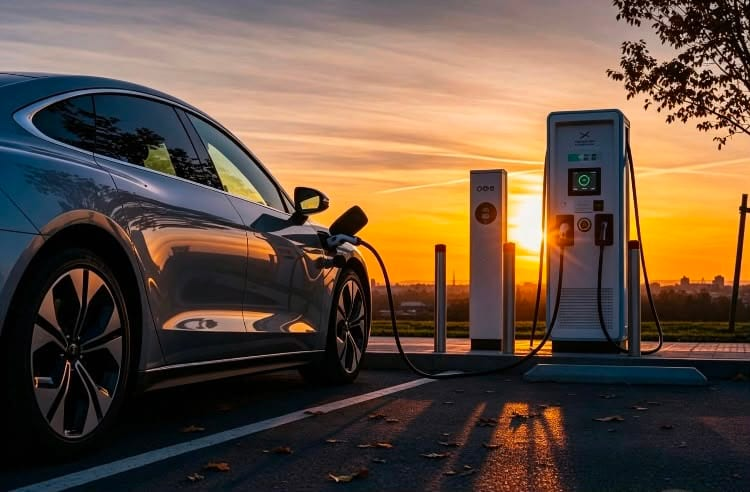
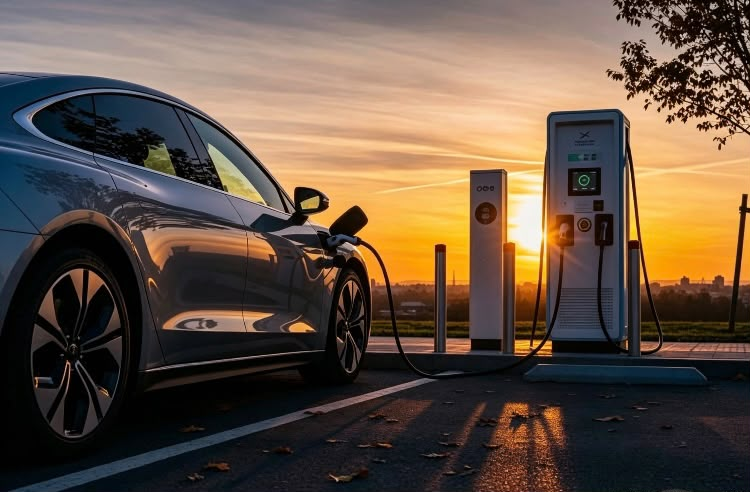
VLA: client revisions round 2 + mobile fixes
- Intro: new "Drawing on our wealth of experience" copy; remove the
  All Mainstream Manufacturers bullet; replace Renault 4 fcard with the
  vehicle collage image (capped height).
- Featured deals: photos on Renault 5 / BYD Atto 2 / Dacia Spring cards;
  subtext now "A snapshot of current examples."; new Power of Many copy.
- Remove brand-logo strip and the two bottom promo images.
- Hero: drop vehicle-type lines (moved with the All Mainstream tagline
  into a new info strip below), lighter overlay so the image shows,
  original image file restored for sharpness, compact landscape mobile hero.
- Mobile: fix hamburger pushed off-screen (compact header) and horizontal
  page slide from the off-canvas drawer (overflow-x hidden).
- Footer: WhatsApp link on all pages; fix Call button hover (inline
  colour override made hover text invisible).

diff --git a/VehicleLeasingAssociates/index.html b/VehicleLeasingAssociates/index.html
@@ -49,7 +49,7 @@
       <li><a href="contact.html">Personalised Quote</a></li>
     </ul>
     <div class="nav-cta">
-      <a href="tel:[phone redacted]" class="btn btn-outline" style="color:var(--navy);border-color:var(--navy)"><i data-lucide="phone"></i><span class="btn-call-text">Call Us</span></a>
+      <a href="tel:[phone redacted]" class="btn btn-outline"><i data-lucide="phone"></i><span class="btn-call-text">Call Us</span></a>
       <a href="https://wa.me/[phone redacted]" target="_blank" rel="noopener" class="btn btn-primary"><i data-lucide="message-circle"></i><span class="btn-call-text">WhatsApp</span></a>
       <button class="hamburger" aria-label="Menu"><i data-lucide="menu"></i></button>
     </div>
@@ -64,36 +64,18 @@
     <div class="hero-top">
       <h1>Transparent Car<br>&amp; Van Leasing</h1>
       <div class="hero-sub"><span class="hero-line"></span> New or Pre Registered</div>
-      <ul class="hero-feats">
-        <li><i data-lucide="car-front"></i> Electric, Hybrid, Petrol Cars</li>
-        <li><i data-lucide="truck"></i> Electric, Petrol, Hybrid, Diesel Vans</li>
-      </ul>
     </div>
     <p class="hero-tagline">Benefit from our group of associates' extensive purchasing power.</p>
   </div>
 </section>
 
-<!-- BRAND STRIP -->
-<section class="brand-strip">
+<!-- INFO STRIP -->
+<section class="info-strip">
   <div class="container">
-    <div class="bs-label">All Mainstream Manufacturers · Any Model</div>
-    <div class="brand-row">
-      <img src="images/brands/audi.png" alt="Audi" loading="lazy">
-      <img src="images/brands/bmw.png" alt="BMW" loading="lazy">
-      <img src="images/brands/mercedes-benz.png" alt="Mercedes-Benz" loading="lazy">
-      <img src="images/brands/volkswagen.png" alt="Volkswagen" loading="lazy">
-      <img src="images/brands/ford.png" alt="Ford" loading="lazy">
-      <img src="images/brands/toyota.png" alt="Toyota" loading="lazy">
-      <img src="images/brands/nissan.png" alt="Nissan" loading="lazy">
-      <img src="images/brands/renault.png" alt="Renault" loading="lazy">
-      <img src="images/brands/peugeot.png" alt="Peugeot" loading="lazy">
-      <img src="images/brands/citroen.png" alt="Citroën" loading="lazy">
-      <img src="images/brands/vauxhall.png" alt="Vauxhall" loading="lazy">
-      <img src="images/brands/kia.png" alt="Kia" loading="lazy">
-      <img src="images/brands/hyundai.png" alt="Hyundai" loading="lazy">
-      <img src="images/brands/fiat.png" alt="Fiat" loading="lazy">
-      <img src="images/brands/dacia.png" alt="Dacia" loading="lazy">
-      <img src="images/brands/byd.png" alt="BYD" loading="lazy">
+    <div class="is-main">All Mainstream Manufacturers · Any Model</div>
+    <div class="is-types">
+      <span><i data-lucide="car-front"></i> Electric, Hybrid, Petrol Cars</span>
+      <span><i data-lucide="truck"></i> Electric, Petrol, Hybrid, Diesel Vans</span>
     </div>
   </div>
 </section>
@@ -104,53 +86,17 @@
     <div class="split-body reveal">
       <span class="eyebrow">What We Offer</span>
       <h2>Qualified Vehicle Lease Consultants</h2>
-      <p>Using our vast amount of experience, we provide cost-effective leasing solutions, tailored to individuals or business. Included in our experience is 17 years of being associated with one of Europe's leading finance institutions.</p>
+      <p>Drawing on our wealth of experience, we provide cost-effective leasing solutions tailored to individuals and businesses. This includes 17 years' association with one of Europe's leading finance institutions.</p>
       <ul class="checklist two">
         <li><i data-lucide="check-circle-2"></i> Car or Van Leasing</li>
         <li><i data-lucide="check-circle-2"></i> Contract with or without maintenance</li>
         <li><i data-lucide="check-circle-2"></i> Finance agreements</li>
         <li><i data-lucide="check-circle-2"></i> Purchase options</li>
       </ul>
-      <div class="subhead" style="display:flex;align-items:center;gap:10px;color:var(--red)"><i data-lucide="check-circle-2" style="width:22px;height:22px"></i> All Mainstream Manufacturers · Any Model</div>
       <a href="contact.html" class="btn btn-navy" style="margin-top:14px"><i data-lucide="arrow-right"></i> Get In Touch</a>
     </div>
     <div class="split-media reveal">
-      <article class="fcard">
-        <div class="fcard-top">
-          <div class="fcard-info">
-            <h3>Renault 4</h3>
-            <p class="fcard-spec">110kW Evolution+<br>Comfort Range 52kWh<br>5dr Auto</p>
-            <div class="fcard-range"><span>Maximum Range</span><strong>249 Miles</strong></div>
-          </div>
-          <div class="fcard-photo">
-            <img src="images/photo-renault4.jpg" alt="Renault 4 electric">
-          </div>
-        </div>
-        <div class="fcard-term"><b>3 Year</b><span>Personal Lease</span></div>
-        <div class="fcard-prices">
-          <div class="fp"><div class="pic"><i data-lucide="wallet"></i></div><span class="lbl">Budget Weekly</span><b>£46.08</b><small>inc VAT</small></div>
-          <div class="fp"><div class="pic"><i data-lucide="calendar-days"></i></div><span class="lbl">Contract Monthly</span><b>£199.68</b><small>inc VAT</small></div>
-          <div class="fp"><div class="pic"><i data-lucide="credit-card"></i></div><span class="lbl">Initial Payment</span><b>£2,396.16</b><small>inc VAT</small></div>
-        </div>
-        <div class="fcard-featsbar">
-          <span><i data-lucide="shield-check"></i> Full Cover Warranty</span>
-          <span><i data-lucide="route"></i> Road Tax Included</span>
-          <span><i data-lucide="clipboard-check"></i> No MOT Concerns</span>
-        </div>
-        <div class="fcard-foot">
-          <div class="fcard-brand">
-            <div class="bic"><i data-lucide="handshake"></i></div>
-            <div>
-              <strong>Vehicle Leasing Associates (UK)</strong>
-              <p>Benefit from our group of associates' purchasing power.</p>
-              <span class="ref">Ref: TWC12</span>
-            </div>
-          </div>
-          <div class="fcard-foot-photo">
-            <img src="images/car-renault4-front.jpg" alt="Renault 4 front view">
-          </div>
-        </div>
-      </article>
+      <img src="images/intro-car.jpg" alt="Electric cars available to lease" style="aspect-ratio:auto;max-height:440px;width:auto;margin:0 auto">
     </div>
   </div>
 </section>
@@ -161,10 +107,11 @@
     <div class="section-head center reveal">
       <span class="eyebrow">Lease Deals</span>
       <h2>Some of Our Amazing Lease Deals</h2>
-      <p>A snapshot of current examples across electric, petrol and commercial — all with road tax, full warranty and no MOT concerns.</p>
+      <p>A snapshot of current examples.</p>
     </div>
     <div class="deal-grid reveal">
       <article class="lcard">
+        <img class="lcard-photo" src="images/card-renault5.jpg" alt="Renault 5 electric">
         <div class="lcard-head">
           <div>
             <span class="lcard-fuel fuel-electric"><i data-lucide="zap"></i> Electric</span>
@@ -190,6 +137,7 @@
         </div>
       </article>
       <article class="lcard">
+        <img class="lcard-photo" src="images/card-byd.jpg" alt="BYD Atto 2 electric">
         <div class="lcard-head">
           <div>
             <span class="lcard-fuel fuel-electric"><i data-lucide="zap"></i> Electric</span>
@@ -215,6 +163,7 @@
         </div>
       </article>
       <article class="lcard">
+        <img class="lcard-photo" src="images/card-dacia.jpg" alt="Dacia Spring electric">
         <div class="lcard-head">
           <div>
             <span class="lcard-fuel fuel-electric"><i data-lucide="zap"></i> Electric</span>
@@ -279,7 +228,7 @@
       <div class="container">
         <div class="tag">The Power of Many</div>
         <h3>Pay Less Through Collective Buying Power</h3>
-        <p>Our group of associates buys across a diverse panel of funders — so you benefit from sharper pricing and a personalised service, including your own named support specialist.</p>
+        <p>Through our extensive network of associates, we secure highly competitive rates on your behalf. Combined with a tailored, personal service and your own dedicated support specialist, you benefit from exceptional value without compromising on expertise or support.</p>
       </div>
     </div>
     <div class="cards reveal">
@@ -289,16 +238,6 @@
       <div class="card"><div class="ic"><i data-lucide="bar-chart-3"></i></div><h3>Market Insights</h3><p>Up-to-date data to guide smarter, better-value decisions.</p></div>
       <div class="card"><div class="ic"><i data-lucide="handshake"></i></div><h3>Strong Partnerships</h3><p>Established relationships built on trust and results.</p></div>
       <div class="card"><div class="ic"><i data-lucide="headset"></i></div><h3>Ongoing Support</h3><p>Advice and support throughout your journey from your named specialist.</p></div>
-    </div>
-  </div>
-</section>
-
-<!-- EV PROMO -->
-<section class="section tight">
-  <div class="container">
-    <div class="promo-duo reveal">
-      <a href="lease-deals.html#cars" class="promo-img" style="display:block"><img src="images/promo-cars-ev.jpg" alt="Is it time to consider another car? Electric lease deals"></a>
-      <a href="lease-deals.html#vans" class="promo-img" style="display:block"><img src="images/promo-vans.jpg" alt="Is it time to consider another van? Electric, petrol or diesel lease deals"></a>
     </div>
   </div>
 </section>
@@ -350,6 +289,7 @@
         <h4>Get In Touch</h4>
         <div class="fc"><i data-lucide="mail"></i> <a href="mailto:[email redacted]">[email redacted]</a></div>
         <div class="fc"><i data-lucide="phone"></i> <a href="tel:[phone redacted]">[phone redacted]</a></div>
+        <div class="fc"><i data-lucide="message-circle"></i> <a href="https://wa.me/[phone redacted]" target="_blank" rel="noopener">WhatsApp</a></div>
         <div class="fc"><i data-lucide="map-pin"></i> Exeter, United Kingdom</div>
         <div class="fc"><i data-lucide="clock"></i> 9am – 8pm, 7 days</div>
         <a href="contact.html" class="btn btn-primary" style="margin-top:8px"><i data-lucide="message-square"></i> Quick Contact</a>

diff --git a/VehicleLeasingAssociates/css/style.css b/VehicleLeasingAssociates/css/style.css
@@ -26,7 +26,7 @@
   --sans:'Inter',system-ui,sans-serif;
 }
 *{margin:0;padding:0;box-sizing:border-box}
-html{scroll-behavior:smooth}
+html{scroll-behavior:smooth;overflow-x:hidden}
 body{
   font-family:var(--sans);
   color:var(--body);
@@ -105,7 +105,7 @@ section{position:relative}
 .hero{position:relative;min-height:600px;display:flex;align-items:stretch;color:#fff;overflow:hidden}
 .hero-bg{position:absolute;inset:0;z-index:0}
 .hero-bg img{width:100%;height:100%;object-fit:cover;object-position:50% 50%}
-.hero-bg::after{content:"";position:absolute;inset:0;background:linear-gradient(90deg,rgba(0,26,74,.95) 0%,rgba(0,26,74,.80) 32%,rgba(0,26,74,.44) 58%,rgba(0,26,74,.08) 100%),linear-gradient(to top,rgba(2,18,50,.6) 0%,rgba(2,18,50,0) 32%)}
+.hero-bg::after{content:"";position:absolute;inset:0;background:linear-gradient(90deg,rgba(0,26,74,.84) 0%,rgba(0,26,74,.60) 34%,rgba(0,26,74,.24) 62%,rgba(0,26,74,0) 100%),linear-gradient(to top,rgba(2,18,50,.42) 0%,rgba(2,18,50,0) 30%)}
 .hero .container{position:relative;z-index:1;width:100%;display:flex;flex-direction:column;justify-content:space-between;padding-top:60px;padding-bottom:56px}
 .hero-top{max-width:620px}
 .hero h1{color:#fff;font-size:clamp(2.3rem,5.2vw,3.7rem);line-height:1.05;letter-spacing:-.02em;margin-bottom:20px}
@@ -339,11 +339,28 @@ section{position:relative}
   .field-row{grid-template-columns:1fr}
   .footer-grid{grid-template-columns:1fr}
   .hero{min-height:0}
-  .hero .container{padding-top:34px;padding-bottom:38px}
+  .hero .container{padding-top:24px;padding-bottom:24px}
   .hero-bg img{object-position:50% 50%}
-  .hero-tagline{margin-top:28px}
+  .hero h1{font-size:clamp(1.7rem,7vw,2.2rem);margin-bottom:12px}
+  .hero-sub{font-size:.92rem;margin-bottom:0}
+  .hero-tagline{margin-top:16px;font-size:1.05rem;max-width:30ch}
   .step{grid-template-columns:1fr}
+  /* compact mobile header so the menu button always fits */
+  .nav{height:64px;gap:8px}
+  .brand img{height:30px}
+  .nav-cta{gap:6px}
+  .nav-cta .btn{padding:9px 10px}
+  .hamburger{padding:6px}
+  .hamburger i{width:24px;height:24px}
 }
+
+/* Info strip below hero */
+.info-strip{background:var(--surface-2);border-bottom:1px solid var(--line);padding:22px 0}
+.info-strip .container{display:flex;flex-direction:column;align-items:center;gap:10px;text-align:center}
+.is-main{font-family:var(--head);font-weight:700;color:var(--navy);font-size:1.1rem;letter-spacing:.01em}
+.is-types{display:flex;flex-wrap:wrap;justify-content:center;gap:8px 30px}
+.is-types span{display:inline-flex;align-items:center;gap:8px;color:var(--body);font-weight:500;font-size:.96rem}
+.is-types i{width:18px;height:18px;color:var(--red);flex-shrink:0}
 
 /* ===========================================================
    Revision components — brand strip, lease deals, promos
@@ -368,6 +385,7 @@ section{position:relative}
 /* HTML lease cards */
 .lcard{background:#fff;border:1px solid var(--line);border-radius:var(--r-lg);box-shadow:var(--shadow);overflow:hidden;display:flex;flex-direction:column;transition:transform .2s,box-shadow .2s}
 .lcard:hover{transform:translateY(-4px);box-shadow:var(--shadow-lg)}
+.lcard-photo{width:100%;height:180px;object-fit:cover;display:block;background:var(--surface-2);border-bottom:1px solid var(--line)}
 .lcard-head{display:flex;justify-content:space-between;gap:14px;padding:22px 22px 16px}
 .lcard-fuel{display:inline-flex;align-items:center;gap:5px;font-size:11px;font-weight:700;letter-spacing:.05em;text-transform:uppercase;padding:4px 9px;border-radius:999px;margin-bottom:11px}
 .lcard-fuel i{width:13px;height:13px}

diff --git a/VehicleLeasingAssociates/about-us.html b/VehicleLeasingAssociates/about-us.html
@@ -40,7 +40,7 @@
       <li><a href="contact.html">Personalised Quote</a></li>
     </ul>
     <div class="nav-cta">
-      <a href="tel:[phone redacted]" class="btn btn-outline" style="color:var(--navy);border-color:var(--navy)"><i data-lucide="phone"></i><span class="btn-call-text">Call Us</span></a>
+      <a href="tel:[phone redacted]" class="btn btn-outline"><i data-lucide="phone"></i><span class="btn-call-text">Call Us</span></a>
       <a href="https://wa.me/[phone redacted]" target="_blank" rel="noopener" class="btn btn-primary"><i data-lucide="message-circle"></i><span class="btn-call-text">WhatsApp</span></a>
       <button class="hamburger" aria-label="Menu"><i data-lucide="menu"></i></button>
     </div>
@@ -162,6 +162,7 @@
         <h4>Get In Touch</h4>
         <div class="fc"><i data-lucide="mail"></i> <a href="mailto:[email redacted]">[email redacted]</a></div>
         <div class="fc"><i data-lucide="phone"></i> <a href="tel:[phone redacted]">[phone redacted]</a></div>
+        <div class="fc"><i data-lucide="message-circle"></i> <a href="https://wa.me/[phone redacted]" target="_blank" rel="noopener">WhatsApp</a></div>
         <div class="fc"><i data-lucide="map-pin"></i> Exeter, United Kingdom</div>
         <div class="fc"><i data-lucide="clock"></i> 9am – 8pm, 7 days</div>
         <a href="contact.html" class="btn btn-primary" style="margin-top:8px"><i data-lucide="message-square"></i> Quick Contact</a>

diff --git a/VehicleLeasingAssociates/contact.html b/VehicleLeasingAssociates/contact.html
@@ -40,7 +40,7 @@
       <li class="active"><a href="contact.html">Personalised Quote</a></li>
     </ul>
     <div class="nav-cta">
-      <a href="tel:[phone redacted]" class="btn btn-outline" style="color:var(--navy);border-color:var(--navy)"><i data-lucide="phone"></i><span class="btn-call-text">Call Us</span></a>
+      <a href="tel:[phone redacted]" class="btn btn-outline"><i data-lucide="phone"></i><span class="btn-call-text">Call Us</span></a>
       <a href="https://wa.me/[phone redacted]" target="_blank" rel="noopener" class="btn btn-primary"><i data-lucide="message-circle"></i><span class="btn-call-text">WhatsApp</span></a>
       <button class="hamburger" aria-label="Menu"><i data-lucide="menu"></i></button>
     </div>
@@ -154,6 +154,7 @@
         <h4>Get In Touch</h4>
         <div class="fc"><i data-lucide="mail"></i> <a href="mailto:[email redacted]">[email redacted]</a></div>
         <div class="fc"><i data-lucide="phone"></i> <a href="tel:[phone redacted]">[phone redacted]</a></div>
+        <div class="fc"><i data-lucide="message-circle"></i> <a href="https://wa.me/[phone redacted]" target="_blank" rel="noopener">WhatsApp</a></div>
         <div class="fc"><i data-lucide="map-pin"></i> Exeter, United Kingdom</div>
         <div class="fc"><i data-lucide="clock"></i> 9am – 8pm, 7 days</div>
         <a href="contact.html" class="btn btn-primary" style="margin-top:8px"><i data-lucide="message-square"></i> Quick Contact</a>

diff --git a/VehicleLeasingAssociates/evs-explained.html b/VehicleLeasingAssociates/evs-explained.html
@@ -40,7 +40,7 @@
       <li><a href="contact.html">Personalised Quote</a></li>
     </ul>
     <div class="nav-cta">
-      <a href="tel:[phone redacted]" class="btn btn-outline" style="color:var(--navy);border-color:var(--navy)"><i data-lucide="phone"></i><span class="btn-call-text">Call Us</span></a>
+      <a href="tel:[phone redacted]" class="btn btn-outline"><i data-lucide="phone"></i><span class="btn-call-text">Call Us</span></a>
       <a href="https://wa.me/[phone redacted]" target="_blank" rel="noopener" class="btn btn-primary"><i data-lucide="message-circle"></i><span class="btn-call-text">WhatsApp</span></a>
       <button class="hamburger" aria-label="Menu"><i data-lucide="menu"></i></button>
     </div>
@@ -142,6 +142,7 @@
         <h4>Get In Touch</h4>
         <div class="fc"><i data-lucide="mail"></i> <a href="mailto:[email redacted]">[email redacted]</a></div>
         <div class="fc"><i data-lucide="phone"></i> <a href="tel:[phone redacted]">[phone redacted]</a></div>
+        <div class="fc"><i data-lucide="message-circle"></i> <a href="https://wa.me/[phone redacted]" target="_blank" rel="noopener">WhatsApp</a></div>
         <div class="fc"><i data-lucide="map-pin"></i> Exeter, United Kingdom</div>
         <div class="fc"><i data-lucide="clock"></i> 9am – 8pm, 7 days</div>
         <a href="contact.html" class="btn btn-primary" style="margin-top:8px"><i data-lucide="message-square"></i> Quick Contact</a>

diff --git a/VehicleLeasingAssociates/lease-deals.html b/VehicleLeasingAssociates/lease-deals.html
@@ -44,7 +44,7 @@
       <li><a href="contact.html">Personalised Quote</a></li>
     </ul>
     <div class="nav-cta">
-      <a href="tel:[phone redacted]" class="btn btn-outline" style="color:var(--navy);border-color:var(--navy)"><i data-lucide="phone"></i><span class="btn-call-text">Call Us</span></a>
+      <a href="tel:[phone redacted]" class="btn btn-outline"><i data-lucide="phone"></i><span class="btn-call-text">Call Us</span></a>
       <a href="https://wa.me/[phone redacted]" target="_blank" rel="noopener" class="btn btn-primary"><i data-lucide="message-circle"></i><span class="btn-call-text">WhatsApp</span></a>
       <button class="hamburger" aria-label="Menu"><i data-lucide="menu"></i></button>
     </div>
@@ -311,6 +311,7 @@
         <h4>Get In Touch</h4>
         <div class="fc"><i data-lucide="mail"></i> <a href="mailto:[email redacted]">[email redacted]</a></div>
         <div class="fc"><i data-lucide="phone"></i> <a href="tel:[phone redacted]">[phone redacted]</a></div>
+        <div class="fc"><i data-lucide="message-circle"></i> <a href="https://wa.me/[phone redacted]" target="_blank" rel="noopener">WhatsApp</a></div>
         <div class="fc"><i data-lucide="map-pin"></i> Exeter, United Kingdom</div>
         <div class="fc"><i data-lucide="clock"></i> 9am – 8pm, 7 days</div>
         <a href="contact.html" class="btn btn-primary" style="margin-top:8px"><i data-lucide="message-square"></i> Quick Contact</a>

diff --git a/VehicleLeasingAssociates/leasing-explained.html b/VehicleLeasingAssociates/leasing-explained.html
@@ -40,7 +40,7 @@
       <li><a href="contact.html">Personalised Quote</a></li>
     </ul>
     <div class="nav-cta">
-      <a href="tel:[phone redacted]" class="btn btn-outline" style="color:var(--navy);border-color:var(--navy)"><i data-lucide="phone"></i><span class="btn-call-text">Call Us</span></a>
+      <a href="tel:[phone redacted]" class="btn btn-outline"><i data-lucide="phone"></i><span class="btn-call-text">Call Us</span></a>
       <a href="https://wa.me/[phone redacted]" target="_blank" rel="noopener" class="btn btn-primary"><i data-lucide="message-circle"></i><span class="btn-call-text">WhatsApp</span></a>
       <button class="hamburger" aria-label="Menu"><i data-lucide="menu"></i></button>
     </div>
@@ -167,6 +167,7 @@
         <h4>Get In Touch</h4>
         <div class="fc"><i data-lucide="mail"></i> <a href="mailto:[email redacted]">[email redacted]</a></div>
         <div class="fc"><i data-lucide="phone"></i> <a href="tel:[phone redacted]">[phone redacted]</a></div>
+        <div class="fc"><i data-lucide="message-circle"></i> <a href="https://wa.me/[phone redacted]" target="_blank" rel="noopener">WhatsApp</a></div>
         <div class="fc"><i data-lucide="map-pin"></i> Exeter, United Kingdom</div>
         <div class="fc"><i data-lucide="clock"></i> 9am – 8pm, 7 days</div>
         <a href="contact.html" class="btn btn-primary" style="margin-top:8px"><i data-lucide="message-square"></i> Quick Contact</a>

diff --git a/VehicleLeasingAssociates/privacy-policy.html b/VehicleLeasingAssociates/privacy-policy.html
@@ -41,7 +41,7 @@
       <li><a href="contact.html">Personalised Quote</a></li>
     </ul>
     <div class="nav-cta">
-      <a href="tel:[phone redacted]" class="btn btn-outline" style="color:var(--navy);border-color:var(--navy)"><i data-lucide="phone"></i><span class="btn-call-text">Call Us</span></a>
+      <a href="tel:[phone redacted]" class="btn btn-outline"><i data-lucide="phone"></i><span class="btn-call-text">Call Us</span></a>
       <a href="https://wa.me/[phone redacted]" target="_blank" rel="noopener" class="btn btn-primary"><i data-lucide="message-circle"></i><span class="btn-call-text">WhatsApp</span></a>
       <button class="hamburger" aria-label="Menu"><i data-lucide="menu"></i></button>
     </div>
@@ -135,6 +135,7 @@
         <h4>Get In Touch</h4>
         <div class="fc"><i data-lucide="mail"></i> <a href="mailto:[email redacted]">[email redacted]</a></div>
         <div class="fc"><i data-lucide="phone"></i> <a href="tel:[phone redacted]">[phone redacted]</a></div>
+        <div class="fc"><i data-lucide="message-circle"></i> <a href="https://wa.me/[phone redacted]" target="_blank" rel="noopener">WhatsApp</a></div>
         <div class="fc"><i data-lucide="map-pin"></i> Exeter, United Kingdom</div>
         <div class="fc"><i data-lucide="clock"></i> 9am – 8pm, 7 days</div>
         <a href="contact.html" class="btn btn-primary" style="margin-top:8px"><i data-lucide="message-square"></i> Quick Contact</a>

diff --git a/VehicleLeasingAssociates/sell-your-vehicle.html b/VehicleLeasingAssociates/sell-your-vehicle.html
@@ -47,7 +47,7 @@
       <li><a href="contact.html">Personalised Quote</a></li>
     </ul>
     <div class="nav-cta">
-      <a href="tel:[phone redacted]" class="btn btn-outline" style="color:var(--navy);border-color:var(--navy)"><i data-lucide="phone"></i><span class="btn-call-text">Call Us</span></a>
+      <a href="tel:[phone redacted]" class="btn btn-outline"><i data-lucide="phone"></i><span class="btn-call-text">Call Us</span></a>
       <a href="https://wa.me/[phone redacted]" target="_blank" rel="noopener" class="btn btn-primary"><i data-lucide="message-circle"></i><span class="btn-call-text">WhatsApp</span></a>
       <button class="hamburger" aria-label="Menu"><i data-lucide="menu"></i></button>
     </div>
@@ -178,6 +178,7 @@
         <h4>Get In Touch</h4>
         <div class="fc"><i data-lucide="mail"></i> <a href="mailto:[email redacted]">[email redacted]</a></div>
         <div class="fc"><i data-lucide="phone"></i> <a href="tel:[phone redacted]">[phone redacted]</a></div>
+        <div class="fc"><i data-lucide="message-circle"></i> <a href="https://wa.me/[phone redacted]" target="_blank" rel="noopener">WhatsApp</a></div>
         <div class="fc"><i data-lucide="map-pin"></i> Exeter, United Kingdom</div>
         <div class="fc"><i data-lucide="clock"></i> 9am – 8pm, 7 days</div>
         <a href="contact.html" class="btn btn-primary" style="margin-top:8px"><i data-lucide="message-square"></i> Quick Contact</a>